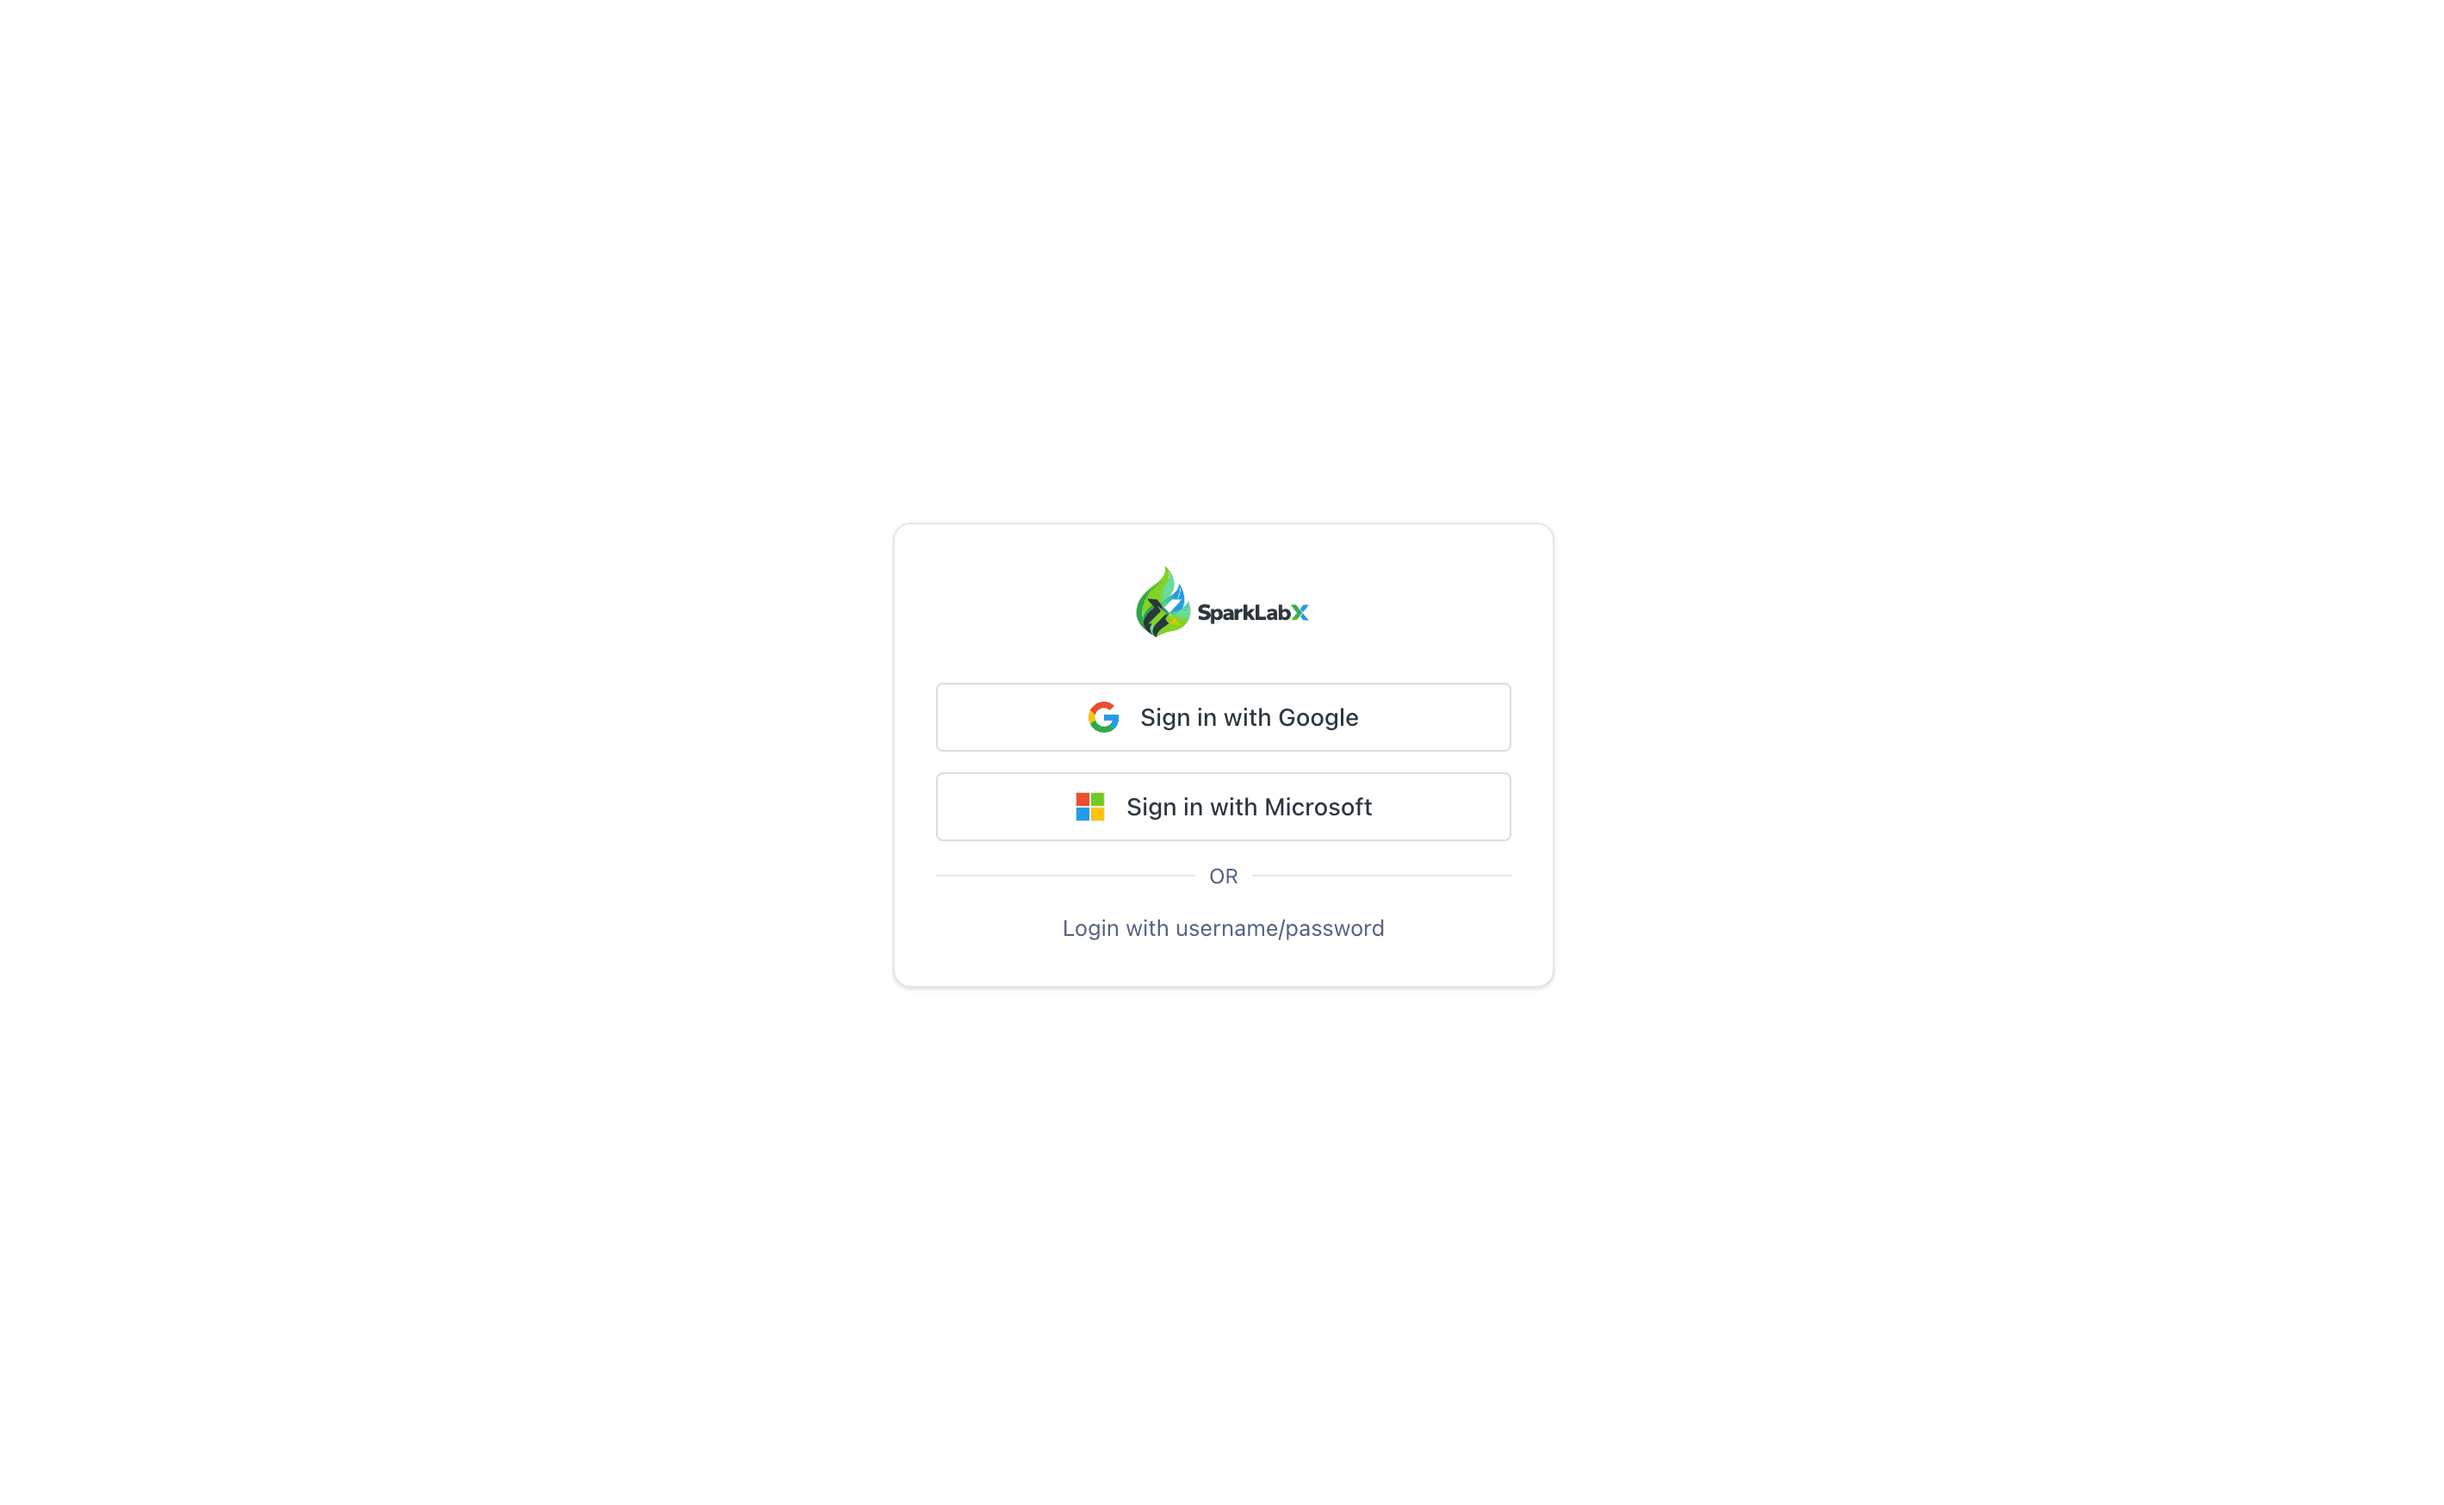
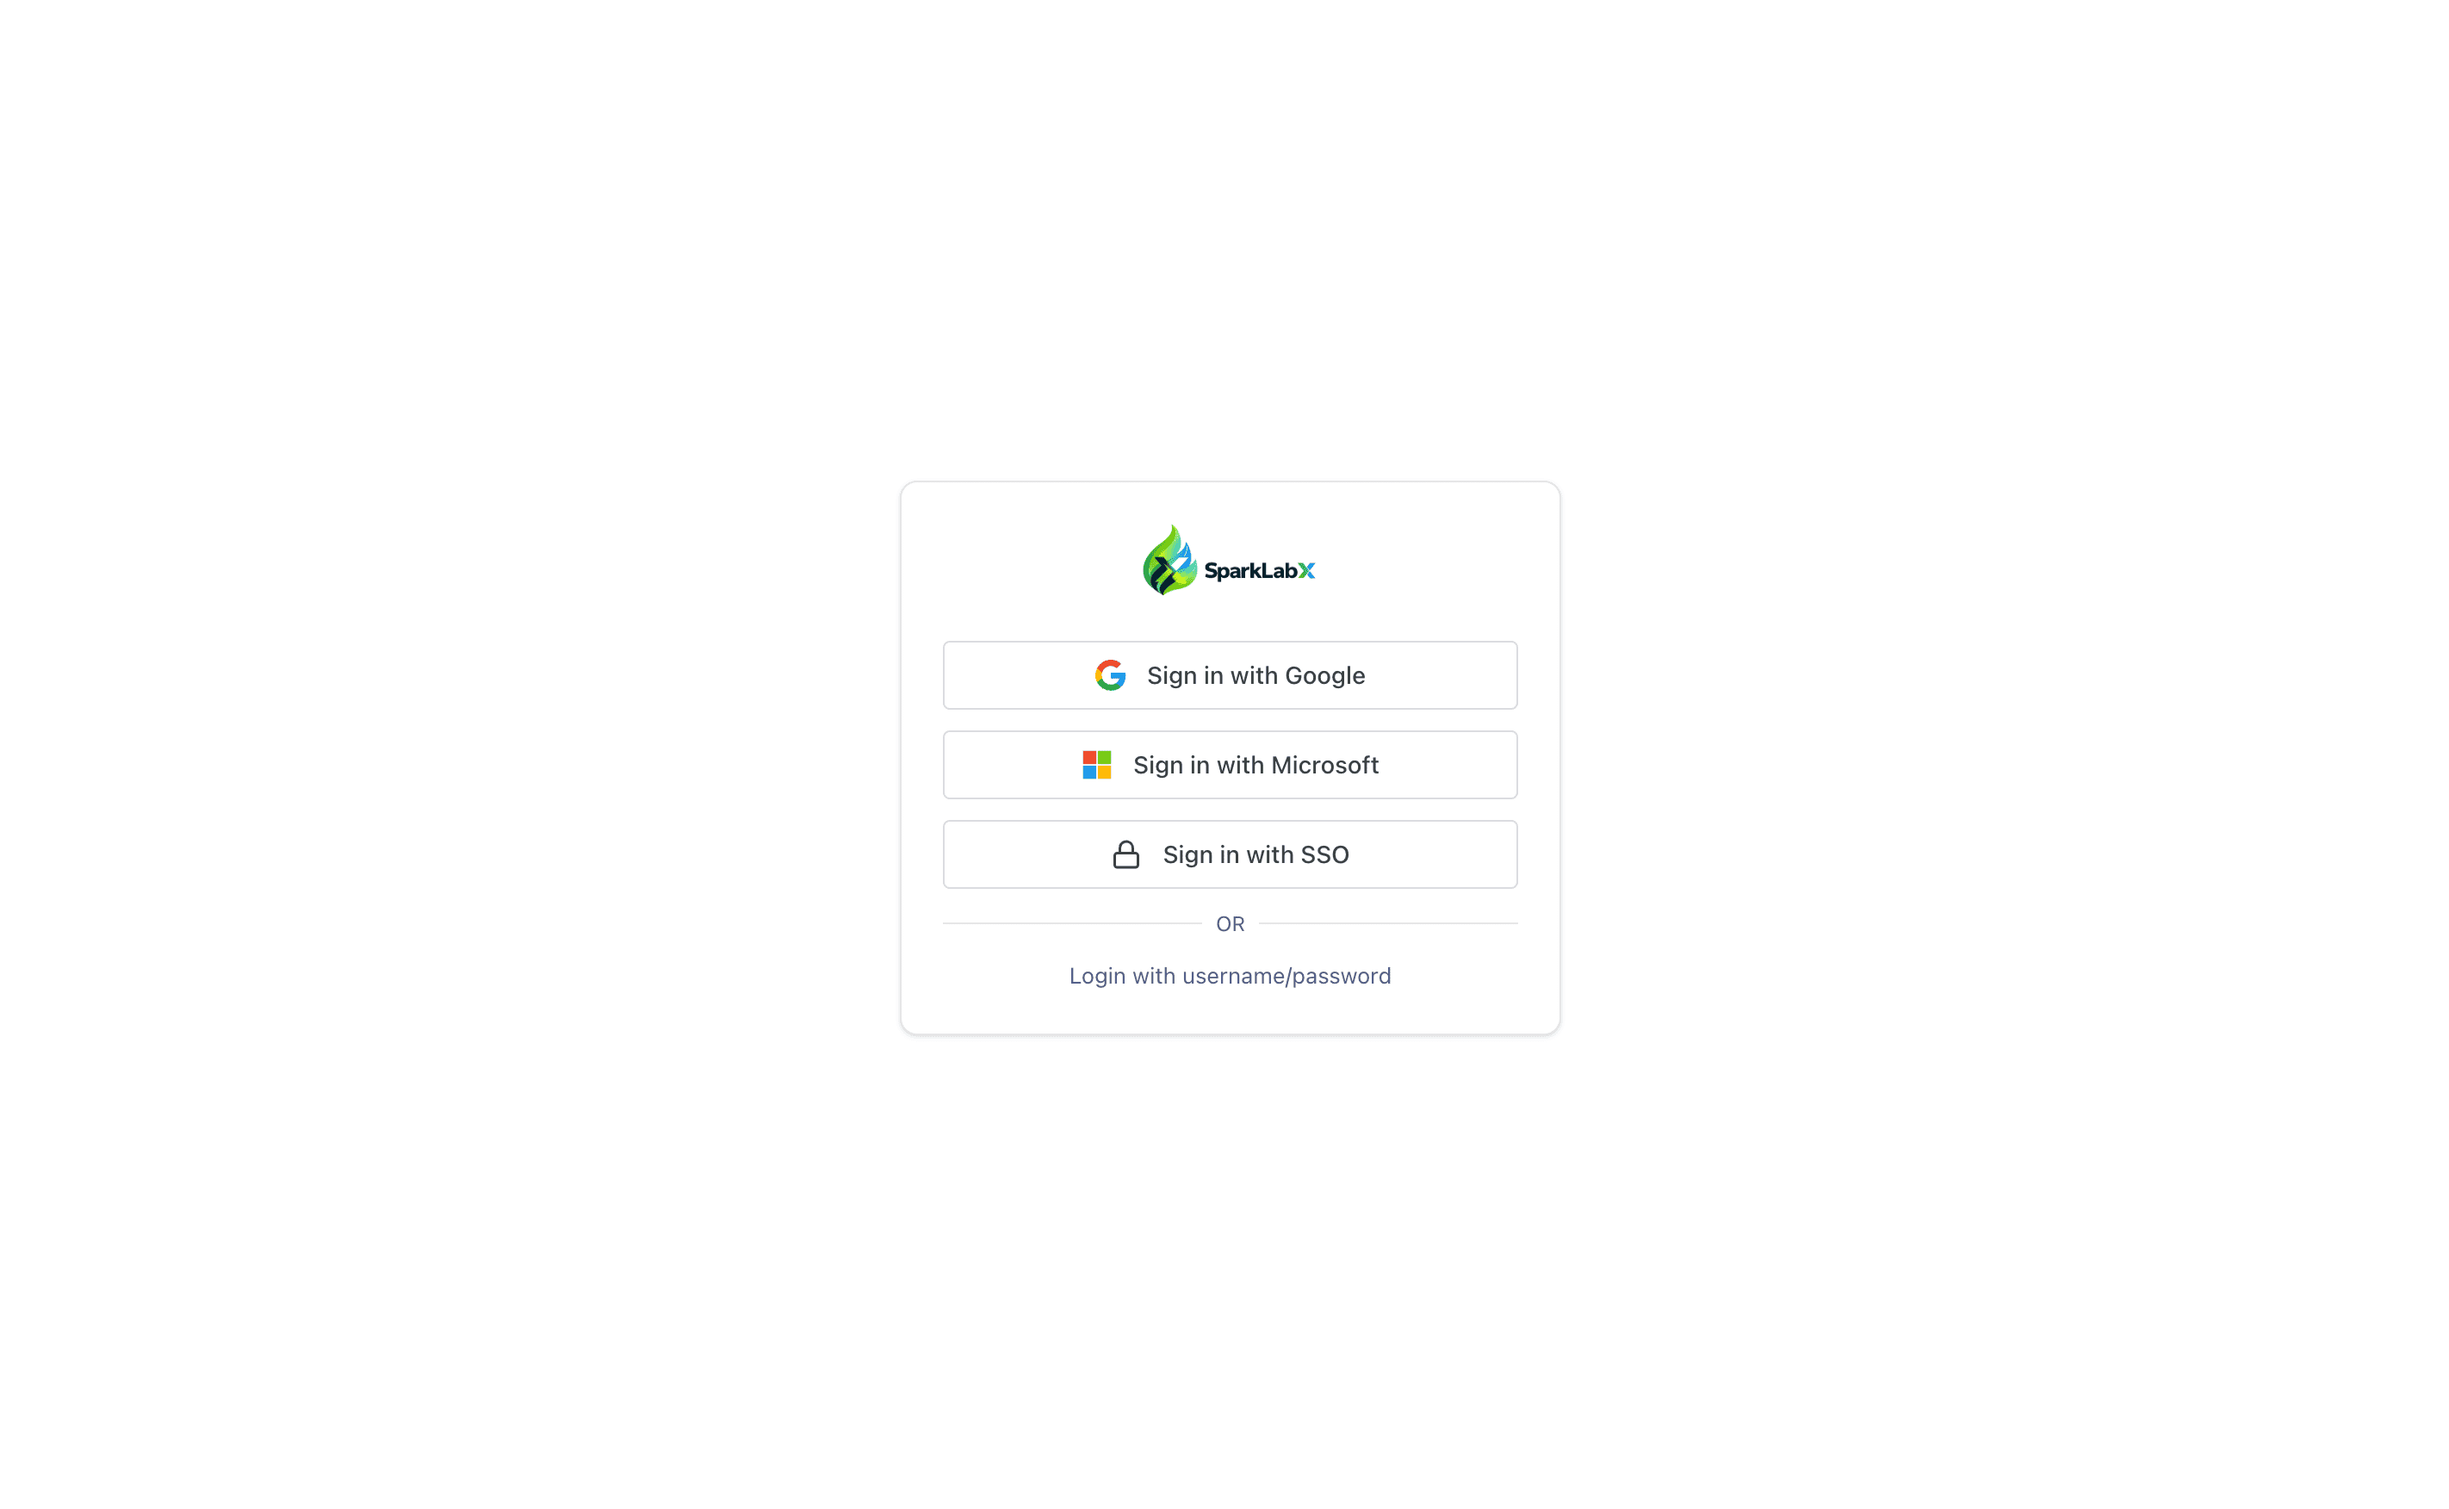
docs(readme): connectors + SSO + Spark UI/DataFlint; refresh screenshots
- Document data connectors (UI host/port/SSL, query("<id>", …), app-as-issuer
  per-user identity), generic OIDC login, and the embedded Spark UI + DataFlint.
- New + compressed screenshots: data-sources, dataflint, sparkui,
  notebook (light/dark side-by-side); refreshed login (SSO button).

Changed region(s): [[0.4341, 0.3398, 0.5891, 0.6796], [0.5891, 0.5252, 0.6202, 0.5561], [0.5891, 0.4634, 0.6202, 0.4943]]

diff --git a/README.md b/README.md
@@ -14,7 +14,12 @@ Each authenticated user gets their own private Spark kernel (Python / PySpark /
 Scala) and their own S3 storage prefix, enforced by real MinIO IAM (not just
 app-layer checks).
 
-![SparkLabX notebook with PySpark/Scala kernel and DataFrame output](docs/screenshots/notebook.png)
+<p>
+  <img src="docs/screenshots/notebook.png" width="49%" alt="SparkLabX notebook — light theme" />
+  <img src="docs/screenshots/notebook-darkmode.png" width="49%" alt="SparkLabX notebook — dark theme" />
+</p>
+
+<sub>SparkLabX notebook (PySpark / Scala) — light & dark themes.</sub>
 
 ---
 
@@ -46,6 +51,14 @@ to login via username/password only.
   editing code.
 
   ![Libraries dialog — add Maven coordinates, kernel restarts to apply](docs/screenshots/libraries.png)
+- **Embedded Spark UI + DataFlint** — open the kernel's Spark Web UI (DAGs,
+  stages, SQL plans, metrics) in-app, no port-forward. **DataFlint** (a Spark
+  performance plugin) is on by default for PySpark and Scala, adding a
+  performance tab that flags slow stages, skew, and oversized scans.
+
+  ![Embedded Spark UI — DAG, stages, SQL plans](docs/screenshots/sparkui.png)
+
+  ![DataFlint performance tab in the Spark UI](docs/screenshots/dataflint.png)
 - **Per-user isolation, end-to-end**
   - Single MinIO bucket; each user owns a private prefix `users/<username>/`.
   - On first login, the backend provisions a dedicated MinIO IAM account
@@ -55,8 +68,18 @@ to login via username/password only.
   - User secrets are AES-GCM encrypted at rest.
 - **Three kernel deployment modes** — pick the right cost / isolation point
   for your stage. See **[KERNEL_MODE](#kernel_mode)** below.
-- **OAuth (Google / Microsoft) + email allowlist** — only invited domains or
-  exact emails can sign in.
+- **OAuth (Google / Microsoft / generic OIDC) + email allowlist** — only
+  invited domains or exact emails can sign in.
+- **Data connectors (Trino / Postgres / MySQL)** — add a source from the UI
+  (host / port / SSL — no JDBC string to memorize), browse its catalog →
+  schema → table → columns, and query it from any notebook with one helper:
+  `query("<id>", "SELECT ...")`. Each connector is **personal** and
+  authenticates as **your** SSO identity — the app mints a short-lived RS256
+  JWT that the source validates via the app's JWKS (app-as-issuer), so Trino's
+  own access control keys off the real user. Optional broker-mapped
+  username/password (AES-GCM encrypted) for sources without SSO.
+
+  ![Data Sources panel — add a connector and browse its catalog](docs/screenshots/data-sources.png)
 - **Shared "Public" workspace** — drop datasets everyone can read.
 - **Postgres-backed state** — kernel ↔ notebook mappings, idle reaper,
   spawn-phase progress. Restartable backend, no in-memory loss.
@@ -93,6 +116,11 @@ Backend (Go + Gin) responsibilities:
 - Kernel pod / container lifecycle: spawn on demand, reap on idle,
   buffered "last used" touches.
 - Notebook persistence, cell execution proxy to Jupyter Kernel Gateway.
+- Connector registry + **app-as-issuer** JWT: mints short-lived RS256 tokens
+  per user and serves the JWKS at `/api/v1/.well-known/jwks.json` so sources
+  (Trino, …) authenticate the real user. Per-query credentials are handed to
+  the kernel via a scoped callback token; see
+  [`docs/connectors-design.md`](docs/connectors-design.md).
 
 Frontend (React + Vite + Monaco):
 
@@ -100,6 +128,8 @@ Frontend (React + Vite + Monaco):
   HTML tables via the kernel-side `display()` / patched `df.show()`).
 - File browser sidebar with two scopes: **My Space** (private) and
   **Public** (shared).
+- **Data Sources** panel: add/edit/delete connectors, browse the catalog tree,
+  copy a ready-made `query("<id>", …)` call.
 - Spark cluster connection dialog (driver/executor memory, package list).
 
 ---
@@ -318,6 +348,23 @@ username/password login only. To enable Google or Microsoft SSO:
    VITE_MICROSOFT_CLIENT_ID=<application-client-id>
    VITE_MICROSOFT_TENANT_ID=<tenant-id>   # use "common" for multi-tenant
    ```
+
+### Generic OIDC (Keycloak, Okta, Auth0, …)
+
+Any standards-compliant OIDC provider works via a server-side code flow — no
+`VITE_*` rebuild needed (the button just redirects to the backend). Set in `.env`:
+
+```bash
+OIDC_ISSUER_URL=https://your-idp/realms/yourrealm   # discovery base
+OIDC_CLIENT_ID=<client-id>
+OIDC_CLIENT_SECRET=<client-secret>
+OIDC_PROVIDER_NAME=SSO                               # button label
+OIDC_REDIRECT_URL=http://localhost:3000/api/v1/auth/oidc/callback
+# OIDC_INTERNAL_ISSUER_URL=  # set if the IdP's in-cluster URL differs from the public issuer
+```
+
+Register `OIDC_REDIRECT_URL` as an allowed redirect URI at the IdP. Leaving
+`OIDC_ISSUER_URL` / `OIDC_CLIENT_ID` blank hides the button.
 
 ### Apply the changes
 
